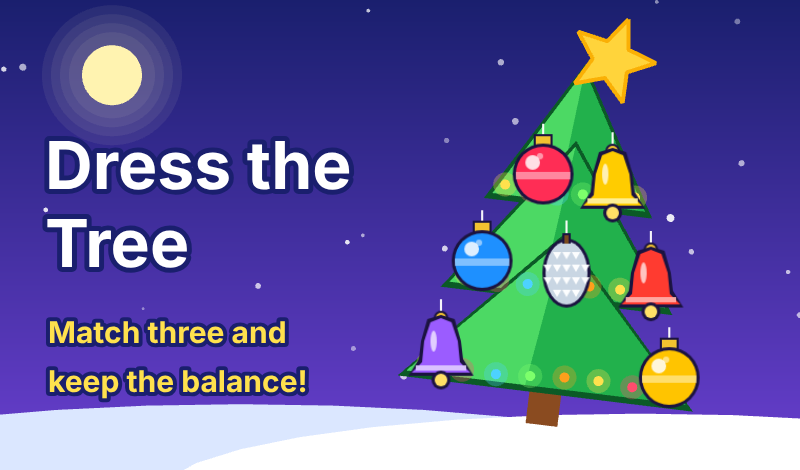
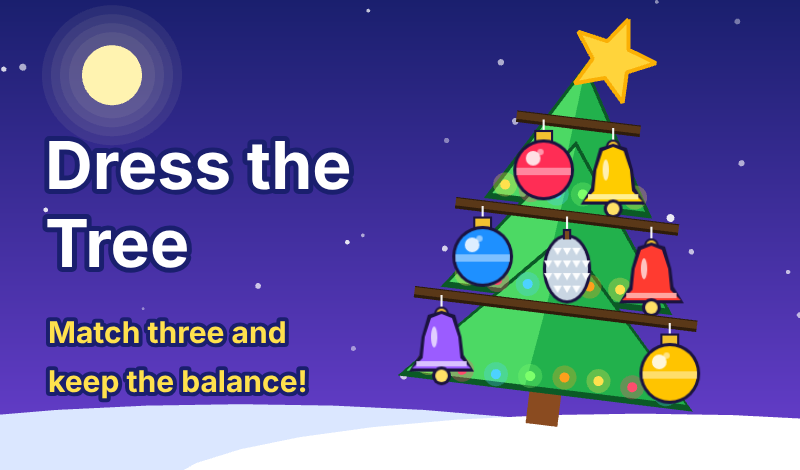
games/dress-the-tree: concept covers with toys tied to boughs
Back to the drawn concept art (leaning tree, sliding star, big toys) that the
screenshot covers replaced; every toy's string now ends on a bough, as in the
game. tools/render-promo.cjs captures all catalog art from promo.html.

Claude-Session: https://claude.ai/code/session_01HEayJoEaFt8L8Gfn3d4aXu

Changed region(s): [[0.5, 0.2383, 0.875, 0.8638]]

diff --git a/games/dress-the-tree/src/promo/main.ts b/games/dress-the-tree/src/promo/main.ts
@@ -7,8 +7,12 @@ import { config } from '../../game.config';
  * open promo.html?shot=<name> in a dev build and take a screenshot of the canvas.
  */
 const shot = new URLSearchParams(location.search).get('shot') ?? 'icon-a';
-const SIZES: Record<string, [number, number]> = { icon: [512, 512], cover: [800, 470] };
-const [w, h] = SIZES[shot.split('-')[0]] ?? SIZES.icon;
+const SIZES: Record<string, [number, number]> = {
+  icon: [512, 512], cover: [800, 470],
+  // Playgama console covers: exact sizes required.
+  'pg-square': [800, 800], 'pg-portrait': [1080, 1920], 'pg-landscape': [1920, 1080],
+};
+const [w, h] = SIZES[shot] ?? SIZES[shot.split('-')[0]] ?? SIZES.icon;
 const C = config.colors;
 
 /** A fir tree whose foliage is `height` tall with the apex at (x, y); returns each tier's base line. */
@@ -52,16 +56,32 @@ function garland(scene: Phaser.Scene, c: Phaser.GameObjects.Container, y: number
   }
 }
 
-function hang(scene: Phaser.Scene, c: Phaser.GameObjects.Container, k: number, x: number, y: number, s: number) {
-  c.add(scene.add.image(x, y, toyKey(k)).setOrigin(0.5, 0).setScale(s).setAngle(-c.angle));
+type Tier = { apex: number; y: number; half: number };
+
+/**
+ * One row of toys on a tier, the way the game shows them: a dark bough on each side of the trunk, every toy's
+ * string tied to the bough. `toys` are [toy kind, x] pairs; `y` is the bough height inside the tree container.
+ */
+function row(scene: Phaser.Scene, c: Phaser.GameObjects.Container, tier: Tier, y: number, toys: [number, number][], s: number) {
+  const spread = tier.half * (y - tier.apex) / (tier.y - tier.apex); // foliage half-width at this height
+  const reach = Math.max(spread * 0.95, ...toys.map(([, x]) => Math.abs(x) + 26 * s));
+  const by = y - 4 * s;
+  const g = scene.add.graphics();
+  g.lineStyle(11 * s, 0x2e1c0b).lineBetween(-reach, by, reach, by);
+  g.lineStyle(7 * s, 0x5a3818).lineBetween(-reach, by - s, reach, by - s);
+  c.add(g);
+  for (const [k, x] of toys) c.add(scene.add.image(x, by, toyKey(k)).setOrigin(0.5, 0).setScale(s).setAngle(-c.angle));
 }
 
 /** Simple sky for small formats: gradient, moon, snowy ground, a few flakes. */
 function sky(scene: Phaser.Scene) {
   const g = scene.add.graphics();
   g.fillGradientStyle(C.backgroundTop, C.backgroundTop, C.backgroundBottom, C.backgroundBottom, 1).fillRect(0, 0, w, h);
-  for (let r = 70; r > 34; r -= 9) g.fillStyle(0xfff6c8, 0.07).fillCircle(w * 0.14, h * 0.16, r);
-  g.fillStyle(0xfff3b0).fillCircle(w * 0.14, h * 0.16, 30);
+  // Moon (left out where a centered title sits at the top).
+  if (!(shot.startsWith('pg-') && h >= w)) {
+    for (let r = 70; r > 34; r -= 9) g.fillStyle(0xfff6c8, 0.07).fillCircle(w * 0.14, h * 0.16, r);
+    g.fillStyle(0xfff3b0).fillCircle(w * 0.14, h * 0.16, 30);
+  }
   g.fillStyle(0xdbe7ff).fillEllipse(w * 0.3, h * 1.02, w * 1.2, h * 0.32);
   g.fillStyle(0xffffff).fillEllipse(w * 0.8, h * 1.05, w * 1.2, h * 0.34);
   const r = (n: number) => Math.abs(Math.sin(n * 12.9898) * 43758.5453) % 1; // fixed "random" for a stable image
@@ -76,35 +96,58 @@ class Promo extends Phaser.Scene {
       // Leaning tree, the star sliding off the top.
       const { c, bases } = tree(this, 250, 95, 330, 3, 9);
       bases.forEach((b, i) => garland(this, c, b.y - 10, b.half * 0.85, 5 + i));
-      hang(this, c, 0, -40, bases[0].y - 75, 1.25); hang(this, c, 7, 40, bases[0].y - 75, 1.25);
-      hang(this, c, 1, -95, bases[1].y - 75, 1.25); hang(this, c, 4, 0, bases[1].y - 75, 1.25); hang(this, c, 8, 95, bases[1].y - 75, 1.25);
-      hang(this, c, 9, -120, bases[2].y - 75, 1.25); hang(this, c, 2, 120, bases[2].y - 75, 1.25);
+      row(this, c, bases[0], bases[0].y - 75, [[0, -40], [7, 40]], 1.25);
+      row(this, c, bases[1], bases[1].y - 75, [[1, -95], [4, 0], [8, 95]], 1.25);
+      row(this, c, bases[2], bases[2].y - 75, [[9, -120], [2, 120]], 1.25);
       star(this, 330, 70, 53, 28);
     } else if (shot === 'icon-b') {
       // Close-up: three red bells in a row about to fly away, star on top.
       const { c, bases } = tree(this, 256, 105, 320, 2, -5);
       garland(this, c, bases[0].y - 10, bases[0].half * 0.85, 6);
       garland(this, c, bases[1].y - 10, bases[1].half * 0.85, 8);
-      [-100, 0, 100].forEach((x) => hang(this, c, 8, x, bases[1].y - 105, 1.6));
-      hang(this, c, 1, 0, bases[0].y - 80, 1.3);
+      row(this, c, bases[1], bases[1].y - 105, [[8, -100], [8, 0], [8, 100]], 1.6);
+      row(this, c, bases[0], bases[0].y - 80, [[1, 0]], 1.3);
       star(this, 250, 92, 58, -8);
     } else if (shot === 'icon-c') {
       // Balance: heavy bell far out on the left against light balls on the right.
       const { c, bases } = tree(this, 256, 95, 330, 3, -10);
       bases.forEach((b, i) => garland(this, c, b.y - 10, b.half * 0.85, 5 + i));
-      hang(this, c, 9, -130, bases[2].y - 75, 1.6);
-      hang(this, c, 2, 60, bases[2].y - 75, 1.15); hang(this, c, 0, 135, bases[2].y - 75, 1.15);
-      hang(this, c, 7, -40, bases[1].y - 75, 1.25); hang(this, c, 1, 60, bases[1].y - 75, 1.15);
-      hang(this, c, 3, 0, bases[0].y - 75, 1.15);
+      row(this, c, bases[2], bases[2].y - 75, [[9, -130]], 1.6);
+      row(this, c, bases[2], bases[2].y - 75, [[2, 60], [0, 135]], 1.15);
+      row(this, c, bases[1], bases[1].y - 75, [[7, -40]], 1.25);
+      row(this, c, bases[1], bases[1].y - 75, [[1, 60]], 1.15);
+      row(this, c, bases[0], bases[0].y - 75, [[3, 0]], 1.15);
       star(this, 218, 75, 51, -20);
+    } else if (shot.startsWith('pg-')) {
+      // Playgama covers (English): the leaning tree with the star sliding off, title beside or above it.
+      const landscape = w > h;
+      const square = w === h;
+      const size = landscape ? h * 0.68 : square ? h * 0.52 : w * 0.72;
+      const tx = landscape ? w * 0.68 : square ? w * 0.5 : w * 0.53;
+      const ty = landscape ? h * 0.2 : square ? h * 0.4 : h * 0.47;
+      const k = size / 320;
+      const { c, bases } = tree(this, tx, ty, size, 3, 7);
+      bases.forEach((b, i) => garland(this, c, b.y - 10 * k, b.half * 0.85, 5 + i));
+      const toys = (r: number, list: [number, number][]) =>
+        row(this, c, bases[r], bases[r].y - 75 * k, list.map(([t, x]) => [t, x * k] as [number, number]), 1.05 * k);
+      toys(0, [[0, -35], [7, 35]]); toys(1, [[1, -85], [5, 0], [8, 85]]); toys(2, [[9, -115], [2, 115]]);
+      star(this, tx + 27 * k, ty - 10 * k, 44 * k, 22);
+      const fs = landscape ? h * 0.13 : square ? w * 0.11 : w * 0.115;
+      const titleX = landscape ? w * 0.06 : w / 2;
+      const titleY = landscape ? h * 0.26 : square ? h * 0.05 : h * 0.13;
+      this.add.text(titleX, titleY, config.title.en, {
+        fontFamily: 'system-ui, sans-serif', fontSize: `${Math.round(fs)}px`, fontStyle: 'bold', color: '#ffffff',
+        stroke: '#1a1f6e', strokeThickness: fs * 0.15, wordWrap: { width: landscape ? w * 0.42 : w * 0.9 }, lineSpacing: -fs * 0.18,
+        align: landscape ? 'left' : 'center',
+      }).setOrigin(landscape ? 0 : 0.5, 0);
     } else {
       // Cover: leaning tree on the right, title on the left.
       const ru = shot !== 'cover-en';
       const { c, bases } = tree(this, 585, 70, 320, 3, 7);
       bases.forEach((b, i) => garland(this, c, b.y - 10, b.half * 0.85, 5 + i));
-      hang(this, c, 0, -35, bases[0].y - 75, 1.05); hang(this, c, 7, 35, bases[0].y - 75, 1.05);
-      hang(this, c, 1, -85, bases[1].y - 75, 1.05); hang(this, c, 5, 0, bases[1].y - 75, 1.05); hang(this, c, 8, 85, bases[1].y - 75, 1.05);
-      hang(this, c, 9, -115, bases[2].y - 75, 1.05); hang(this, c, 2, 115, bases[2].y - 75, 1.05);
+      row(this, c, bases[0], bases[0].y - 75, [[0, -35], [7, 35]], 1.05);
+      row(this, c, bases[1], bases[1].y - 75, [[1, -85], [5, 0], [8, 85]], 1.05);
+      row(this, c, bases[2], bases[2].y - 75, [[9, -115], [2, 115]], 1.05);
       star(this, 612, 60, 44, 22);
       this.add.text(40, 120, ru ? config.title.ru : config.title.en, {
         fontFamily: 'system-ui, sans-serif', fontSize: '66px', fontStyle: 'bold', color: '#ffffff',
